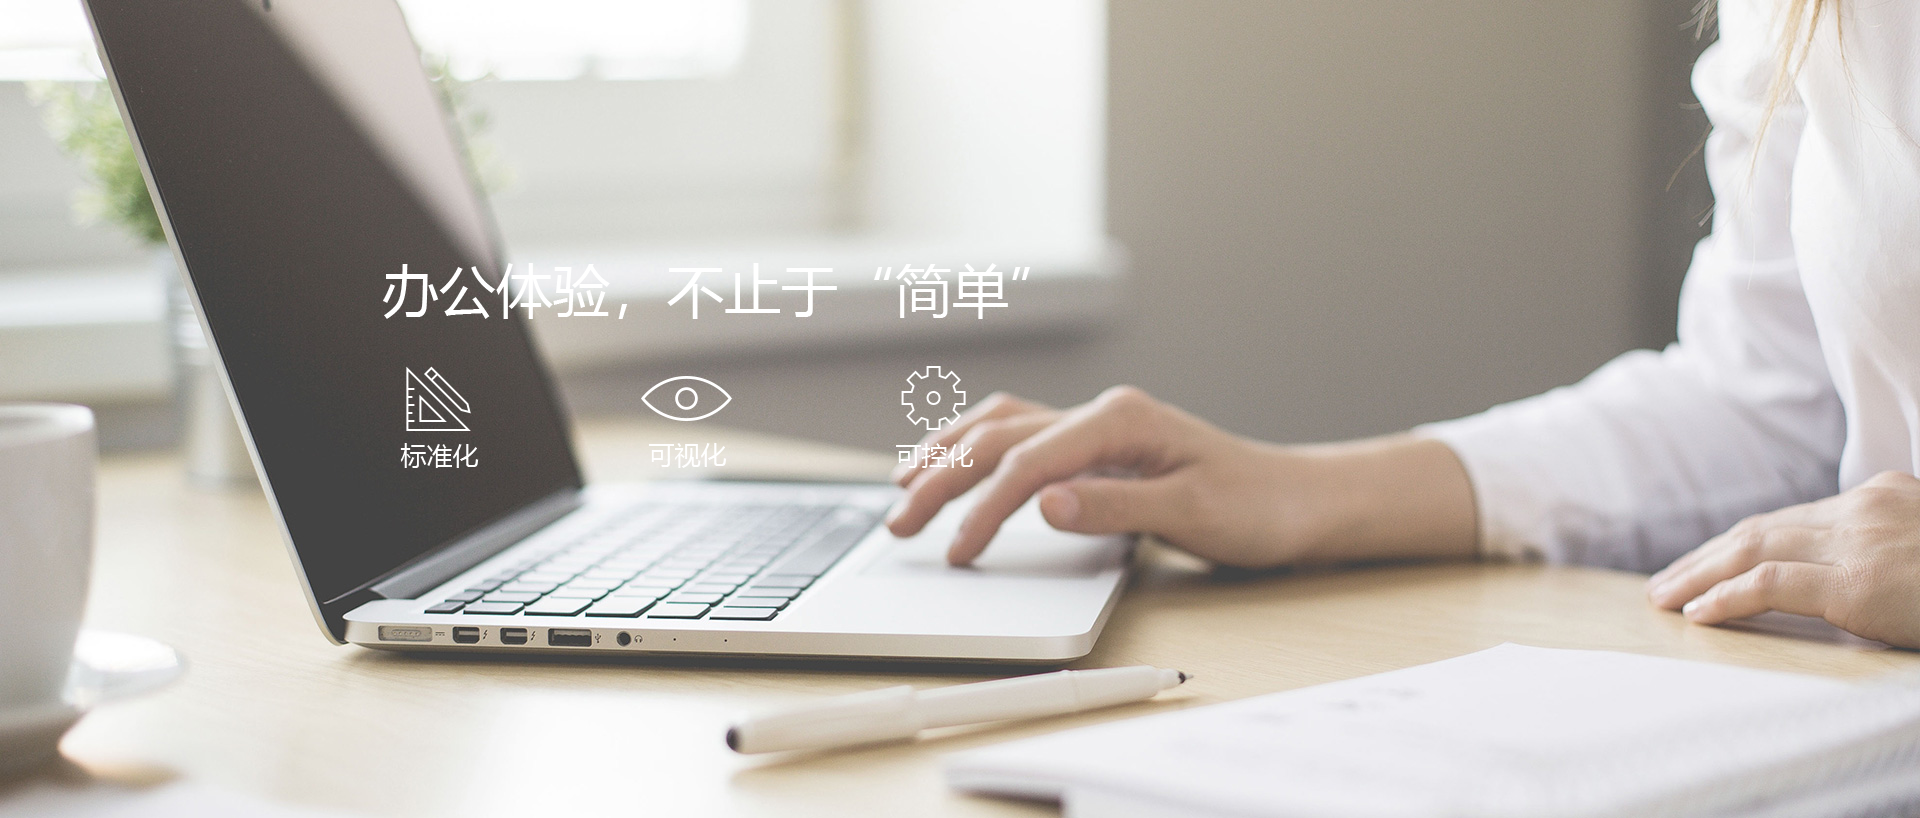
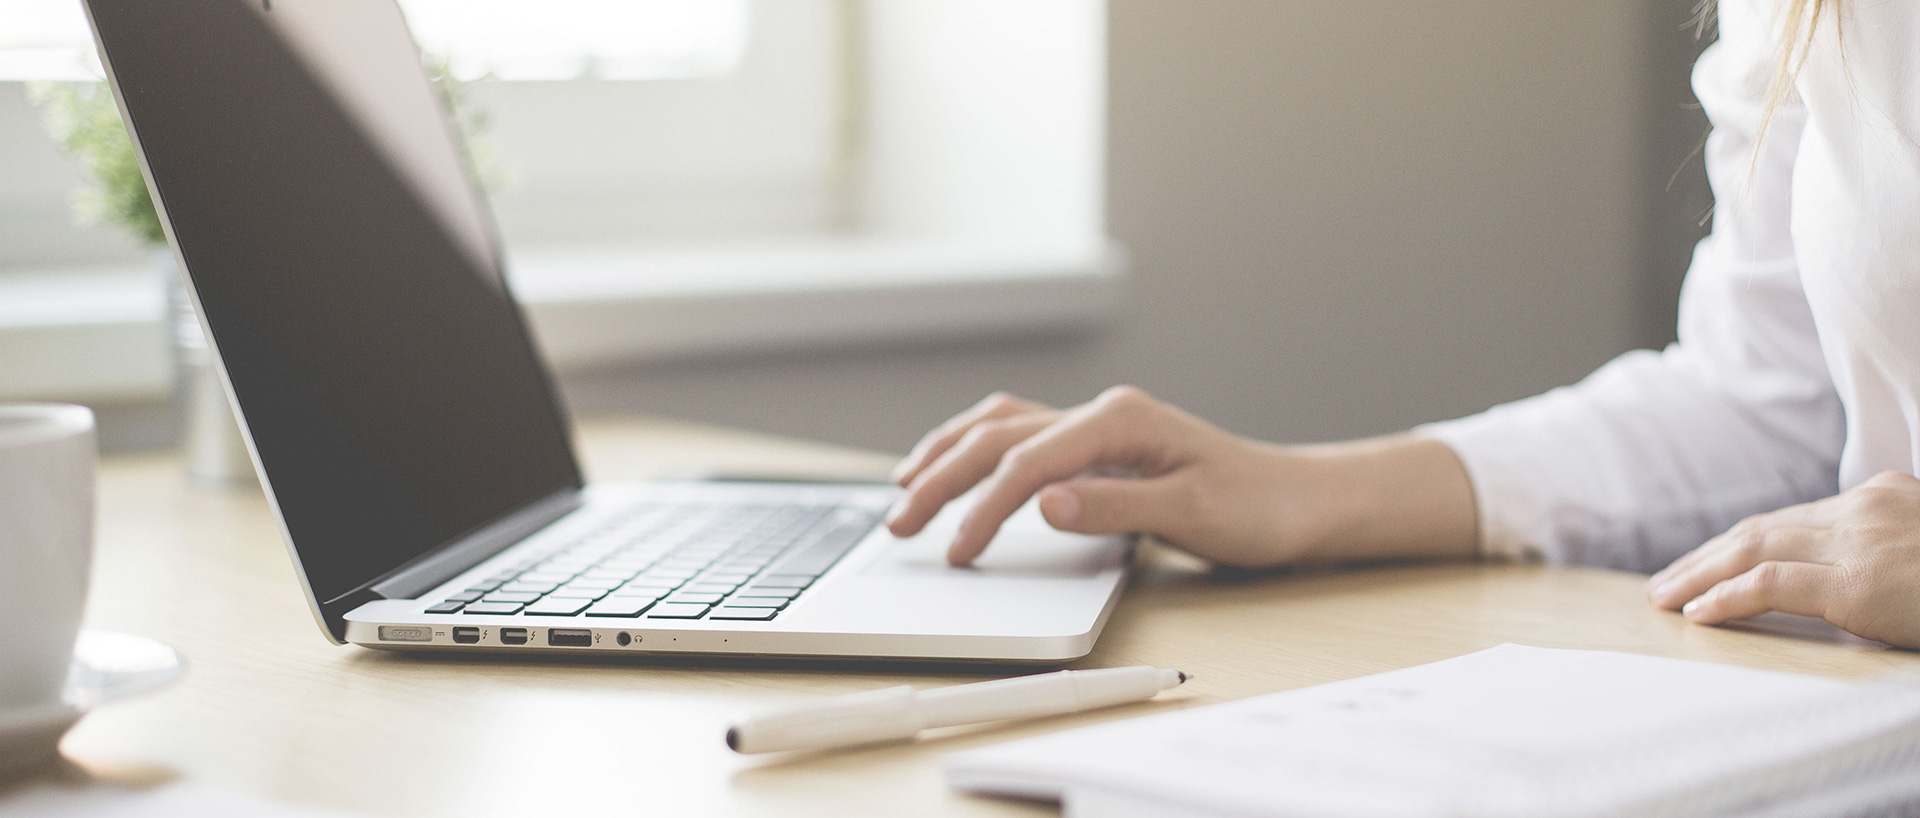
update

diff --git a/index.html b/index.html
@@ -74,9 +74,27 @@
 
                 <div class="swiper-container">
                     <div class="swiper-wrapper">
-                        <div class="swiper-slide"><img src="static/images/tu1.png" alt=""></div>
-                        <div class="swiper-slide"><img src="static/images/tu1.png" alt=""></div>
-                        <div class="swiper-slide"><img src="static/images/tu1.png" alt=""></div>
+                        <div class="swiper-slide" style="position: relative">
+                            <div class="img_text">
+                                <h1>办公体验，不止于“简单”</h1>
+                                <ul>
+                                    <li>
+                                        <img src="static/images/sweiper_img_01.png" alt="">
+                                        <p>标准化</p>
+                                    </li>
+                                    <li>
+                                        <img src="static/images/sweiper_img_02.png" alt="">
+                                        <p>可视化</p>
+                                    </li>
+                                    <li>
+                                        <img src="static/images/sweiper_img_03.png" alt="">
+                                        <p>可控化</p>
+                                    </li>
+                                </ul>
+                            </div>
+                            <img src="static/images/tu1.png" alt=""></div>
+<!--                        <div class="swiper-slide"><img src="static/images/tu1.png" alt=""></div>-->
+<!--                        <div class="swiper-slide"><img src="static/images/tu1.png" alt=""></div>-->
                     </div>
 
                     <!-- 如果需要导航按钮 -->
@@ -234,12 +252,12 @@
                         <h2>服务内容</h2>
                     </div>
                     <ul class="row">
-                        <li class="col-lg-2 col-sm-4 col-xs-6 wow zoomIn" style="background: url('./static/images/service01.png') no-repeat center; "></li>
-                        <li class="col-lg-2 col-sm-4 col-xs-6 wow zoomIn" style="background: url('./static/images/service02.png') no-repeat center; "></li>
-                        <li class="col-lg-2 col-sm-4 col-xs-6 wow zoomIn" style="background: url('./static/images/service03.png') no-repeat center; "></li>
-                        <li class="col-lg-2 col-sm-4 col-xs-6 wow zoomIn" style="background: url('./static/images/service04.png') no-repeat center; "></li>
-                        <li class="col-lg-2 col-sm-4 col-xs-6 wow zoomIn" style="background: url('./static/images/service05.png') no-repeat center; "></li>
-                        <li class="col-lg-2 col-sm-4 col-xs-6 wow zoomIn" style="background: url('./static/images/service06.png') no-repeat center; "></li>
+                        <li class="col-lg-2 col-sm-4 col-xs-6 wow zoomIn service_img"><img src="static/images/service01.png" alt=""><p class="service_p">物联网基础</p></li>
+                        <li class="col-lg-2 col-sm-4 col-xs-6 wow zoomIn service_img"><img src="static/images/service02.png" alt=""><p class="service_p">物联网应用</p></li>
+                        <li class="col-lg-2 col-sm-4 col-xs-6 wow zoomIn service_img"><img src="static/images/service03.png" alt=""><p class="service_p">GIS应用开发</p></li>
+                        <li class="col-lg-2 col-sm-4 col-xs-6 wow zoomIn service_img"><img src="static/images/service04.png" alt=""><p class="service_p">行业网站建设</p></li>
+                        <li class="col-lg-2 col-sm-4 col-xs-6 wow zoomIn service_img"><img src="static/images/service05.png" alt=""><p class="service_p">文印系统解决方案</p></li>
+                        <li class="col-lg-2 col-sm-4 col-xs-6 wow zoomIn service_img"><img src="static/images/service06.png" alt=""><p class="service_p">技术及方案咨询</p></li>
                     </ul>
                 </div>
             </div>

diff --git a/static/css/pc.css b/static/css/pc.css
@@ -29,6 +29,7 @@ h1,h2,h3,h4 {
 
 
 /*导航栏样式*/
+
 .navbar .container a {
     line-height: 55px;
     color: #555;
@@ -80,6 +81,50 @@ h1,h2,h3,h4 {
     right: .252632rem!important;
 }
 /* end */
+.img_text {
+    position: absolute;
+    top: 50%;
+    transform: translateY(-50%);
+    left: 1.578947rem
+}
+.img_text li img {
+    position: absolute;
+    left: 50%;
+    transform: translateX(-50%);
+    bottom: 50%;
+    width: .342105rem;
+    height: .342105rem;
+
+}
+.img_text li:nth-child(2) img {
+    width: .478947rem;
+    height: .236842rem;
+    bottom: 53%;
+}
+.img_text h1 {
+    font-size: .3rem;
+    color: #fff;
+    text-align: center;
+}
+.img_text p {
+    position: absolute;
+    bottom: .221053rem;
+    left: 50%;
+    transform: translateX(-50%);
+    color: #fff;
+    font-size: .136842rem;
+
+}
+.img_text ul {
+    display: flex;
+    width: 3.473684rem;
+    height: 1.110526rem;
+}
+.img_text ul li {
+    position: relative;
+    flex: 1;
+}
+
 
 
 .nav_pc {
@@ -337,6 +382,22 @@ content_r_c p {
 .service .img_center {
     width: 128px;
     margin: 0 auto;
+}
+.service_img {
+    position: relative;
+}
+.service_img img {
+    position: absolute;
+    top: 45%;
+    left: 45%;
+    transform: translate(-50%,-50%);
+}
+.service_p {
+    position: absolute;
+    bottom: 0;
+    font-size: 16px;
+    width: 90%;
+    text-align: center;
 }
 
 /* 联系我们 */

diff --git a/static/css/mobile.css b/static/css/mobile.css
@@ -39,6 +39,50 @@
         opacity: 0;
     }
 
+    .img_text li img {
+        position: absolute;
+        left: 50%;
+        transform: translateX(-50%);
+        bottom: 50%;
+        width: 0.8rem;
+        height: 0.8rem;
+
+    }
+    .img_text li:nth-child(2) img {
+        width: 1.12rem;
+        height: 0.56rem;
+        left: 51%;
+        bottom: 53%;
+    }
+    .img_text h1 {
+        font-size: .53rem;
+        color: #fff;
+        text-align: center;
+    }
+    .img_text p {
+        position: absolute;
+        bottom: 0;
+        left: 50%;
+        transform: translateX(-50%);
+        color: #fff;
+        font-size: .37rem;
+        width: 100%;
+        text-align: center;
+
+    }
+    .img_text ul {
+        display: flex;
+        width: 5.3rem;
+        height: 2.110526rem;
+    }
+    .img_text ul li {
+        position: relative;
+        flex: 1;
+    }
+
+
+
+
 
     .w465 {
         padding: .131579rem .157895rem;
@@ -103,6 +147,7 @@
     }
     .about img {
         width: 99%;
+        height: 250px;
         border-radius: 3px;
     }
     .about .content_r {
@@ -208,7 +253,7 @@
     }
     .classic li h3 {
         font-size: 22px;
-        margin: 22px 0;
+        margin: 22px 0 15px 0;
     }
     .classic li p {
         font-size: 14px;

diff --git a/static/css/pad.css b/static/css/pad.css
@@ -30,6 +30,16 @@
         right: .252632rem!important;
     }
 
+    .img_text p {
+        position: absolute;
+        bottom: .121053rem;
+        left: 50%;
+        transform: translateX(-50%);
+        color: #fff;
+        font-size: .136842rem;
+
+    }
+
 
     .w465 h1 {
         font-size: 16px;
